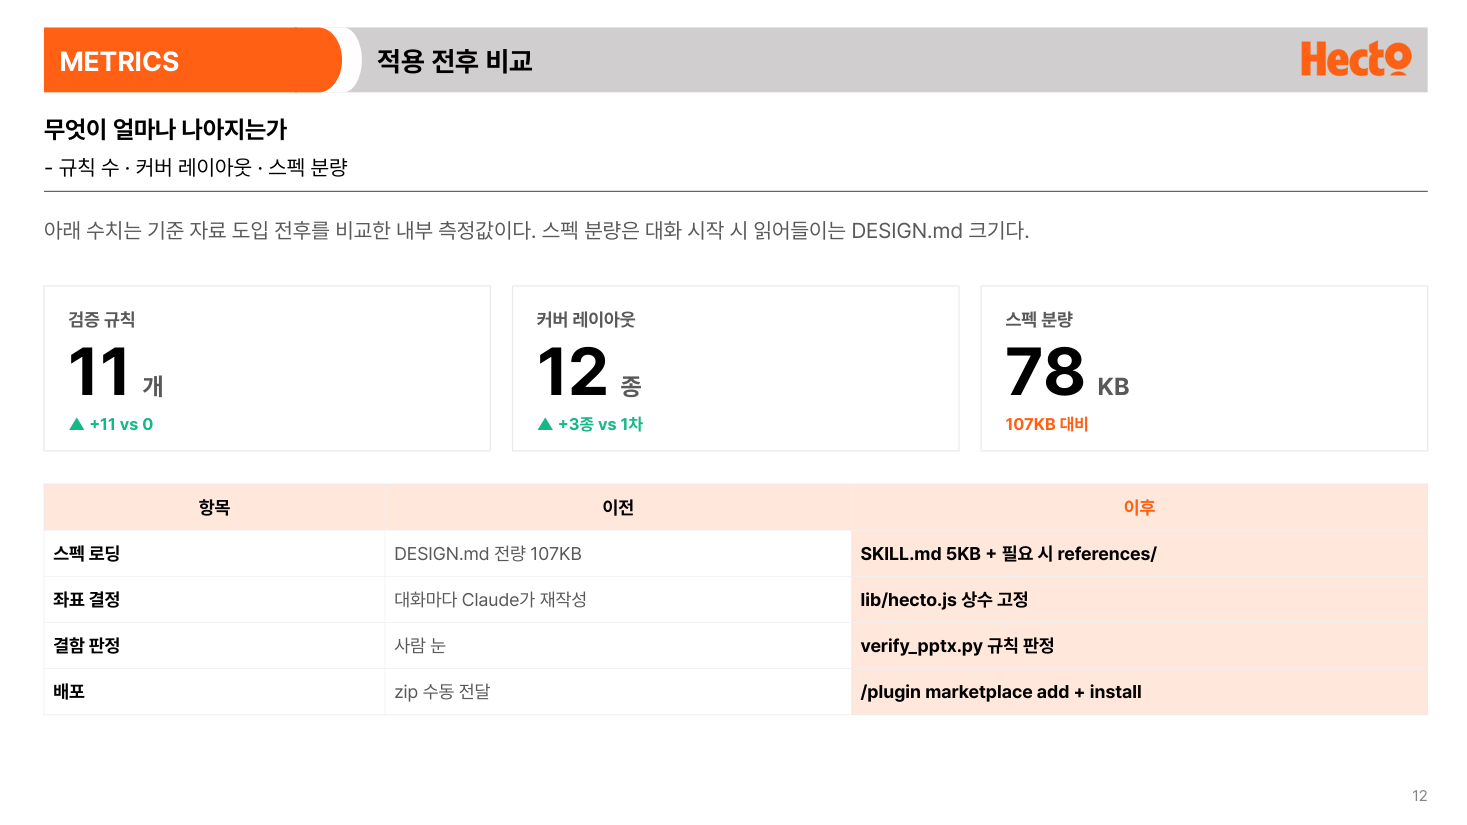
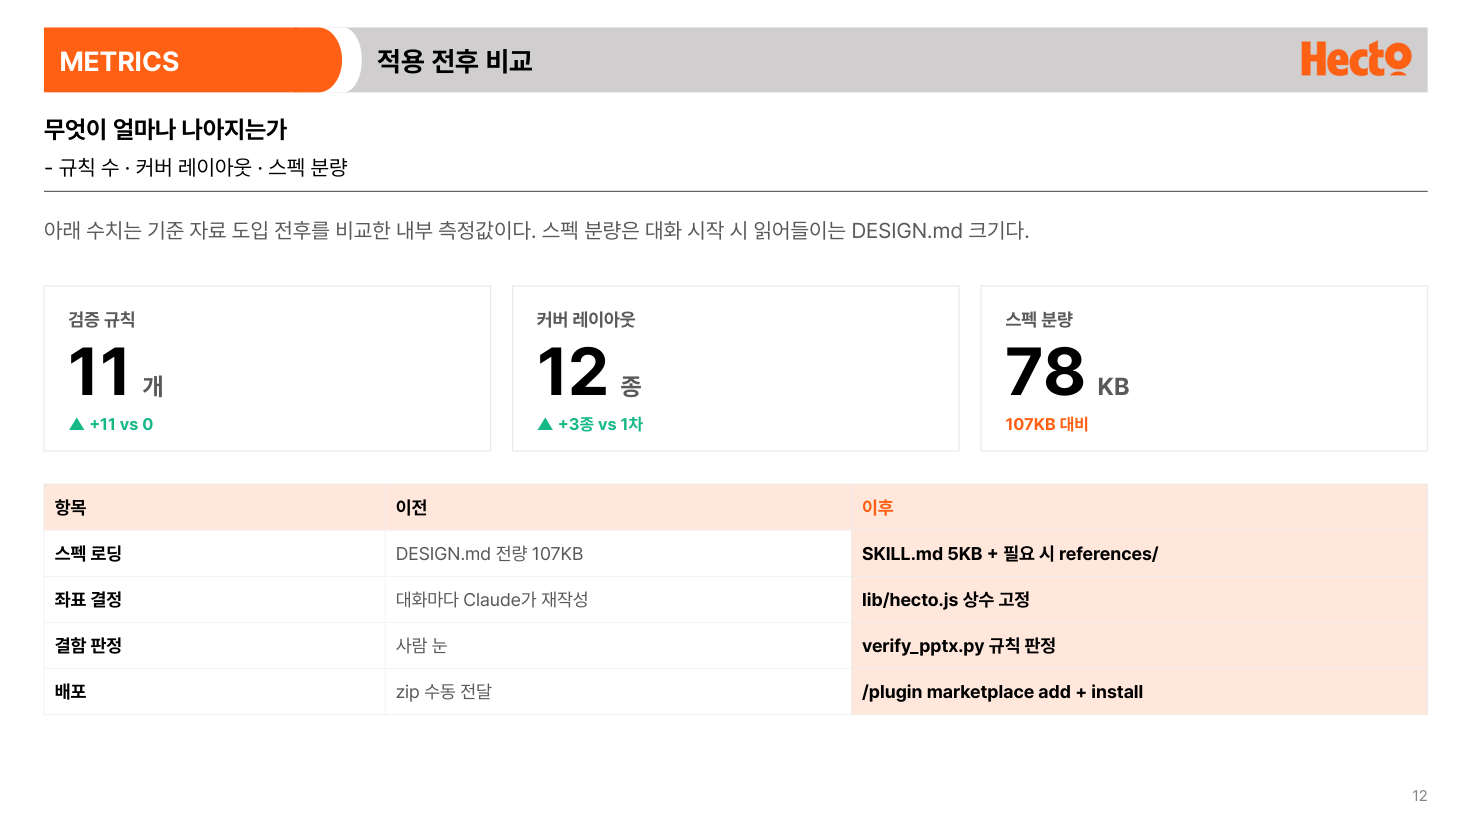
hecto-ppt 0.5.1

diff --git a/plugins/hecto-ppt/skills/hecto-ppt/lib/hecto.js b/plugins/hecto-ppt/skills/hecto-ppt/lib/hecto.js
@@ -223,22 +223,31 @@ class ContentSlide {
   // 데이터 표. 바깥 테두리 hairline, 안쪽 행 구분선 hairline-soft, 행 높이 0.42".
   // 강조 열은 **글자색**으로만 표시한다. 헤더 배경까지 오렌지로 채우면
   // 표 절반이 시그니처 오렌지가 되어 페이지의 오렌지 예산을 통째로 삼킨다.
-  table({ header, rows, colW, emphasis }) {
+  table({ header, rows, colW, emphasis, align }) {
     const y = this.hasKpi ? Y.tableAfterKpi : Y.blocks;
     const N = header.length;
     const outer = { type: "solid", pt: 0.5, color: C.hairline };
-    const inner = { type: "solid", pt: 0.5, color: C.hairlineSoft };
+    const soft = { type: "solid", pt: 0.5, color: C.hairlineSoft };
+    // 강조 열 안에서는 hairline-soft가 wash 위에서 보이지 않는다. 행 경계가
+    // 뭉개져 열 전체가 색면 하나로 읽히므로 한 단계 진한 hairline을 쓴다.
     const total = rows.length + 1;
-    const edge = (r, c) => [
-      r === 0 ? outer : inner,
-      c === N - 1 ? outer : inner,
-      r === total - 1 ? outer : inner,
-      c === 0 ? outer : inner,
-    ];
+    const edge = (r, c) => {
+      const inner = c === emphasis ? outer : soft;
+      return [
+        r === 0 ? outer : inner,
+        c === N - 1 ? outer : inner,
+        r === total - 1 ? outer : inner,
+        c === 0 ? outer : inner,
+      ];
+    };
+    // 열마다 정렬을 정하고, 헤더는 자기 열의 본문 정렬을 따른다.
+    // 기본값은 라벨 열 왼쪽, 나머지 가운데. 문장형 열은 호출부가 left를 넘긴다.
+    const at = (c) => (align && align[c]) || (c === 0 ? "left" : "center");
+
     const table = [header.map((txt, c) => ({
       text: txt,
       options: {
-        fontFace: F, fontSize: 12, bold: true, align: "center", valign: "middle",
+        fontFace: F, fontSize: 12, bold: true, align: at(c), valign: "middle",
         fill: { color: C.wash },
         color: c === emphasis ? C.brandOrange : C.ink,
         border: edge(0, c),
@@ -247,7 +256,7 @@ class ContentSlide {
     rows.forEach((row, r) => table.push(row.map((txt, c) => ({
       text: txt,
       options: {
-        fontFace: F, fontSize: 12, align: "left", valign: "middle",
+        fontFace: F, fontSize: 12, align: at(c), valign: "middle",
         bold: c === 0 || c === emphasis,
         color: c === 0 || c === emphasis ? C.ink : C.body,
         fill: { color: c === emphasis ? C.wash : C.canvas },
@@ -255,7 +264,8 @@ class ContentSlide {
       },
     }))));
     this.s.addTable(table, {
-      x: FRAME.x, y, w: FRAME.w, colW, rowH: 0.42, margin: [2, 6, 2, 6],
+      x: FRAME.x, y, w: FRAME.w, colW, rowH: 0.42,
+      margin: [2, 7, 2, 7],   // 좌우 0.10"
     });
     return this;
   }

diff --git a/plugins/hecto-ppt/skills/hecto-ppt/references/components.md b/plugins/hecto-ppt/skills/hecto-ppt/references/components.md
@@ -159,15 +159,20 @@ runs.push({
 - Outer border 0.5pt {colors.hairline}; row height 0.42".
 - Inner row separators 0.5pt {colors.hairline-soft}.
 
+**Cell padding:** 0.10" horizontal, 0.03" vertical. Earlier drafts used ~0.08" horizontal, which left body text hugging the cell edge and made the table read tighter than the {component.kpi-tile}s above it (0.22" padding) on the same page.
+
+**Column alignment:** decided per column, and **the header cell always matches its own column's body alignment.** Short values (years, counts, percentages) center; sentence-like text left-aligns. A centered header over left-aligned body text is the most visible table defect in this system — the two rows of the same column appear to belong to different tables.
+
 **{component.data-table-header}** — Top header row.
-- Fill {colors.brand-orange-wash}, text {typography.table-header} in {colors.ink-strong}, centered.
+- Fill {colors.brand-orange-wash}, text {typography.table-header} in {colors.ink-strong}, alignment per column (see above).
 
 **{component.data-table-row}** — Body row.
-- Fill {colors.canvas}, text {typography.table-body} in {colors.body}, centered. Label column may be left-aligned and bold ({colors.ink-strong}).
+- Fill {colors.canvas}, text {typography.table-body} in {colors.body}. Label column is left-aligned and bold ({colors.ink-strong}).
 
 **{component.data-table-emphasis}** — Emphasis column (e.g., latest year, projected value).
 - Cell fill {colors.brand-orange-wash}, cell text {typography.table-body} in {colors.ink-strong} bold.
 - Header of that column: {typography.table-header} in {colors.brand-orange}.
+- **Row separators inside the emphasis column use {colors.hairline}, not {colors.hairline-soft}.** Hairline-soft on the orange wash has almost no contrast, so the row boundaries dissolve and the column reads as one solid panel instead of a set of rows.
 
 ### KPI Tiles
 

diff --git a/README.md b/README.md
@@ -84,8 +84,6 @@ Pretendard가 시스템에 설치돼 있으면 렌더가 정확해진다. 없어
 |---|---|
 | ![](preview/slide-14.png) | |
 
-범위 밖: 차트, 타임라인, 풀 인용, 콜아웃. 수치는 데이터 표 또는 KPI 타일로 표현
-
 ## 버전
 
 0.5.1
